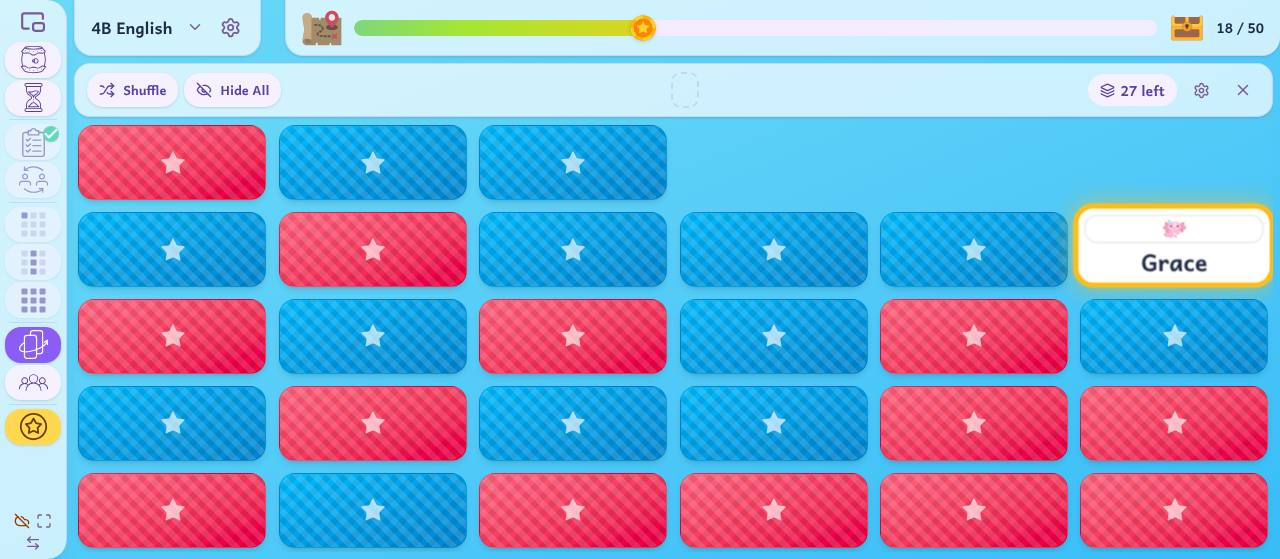
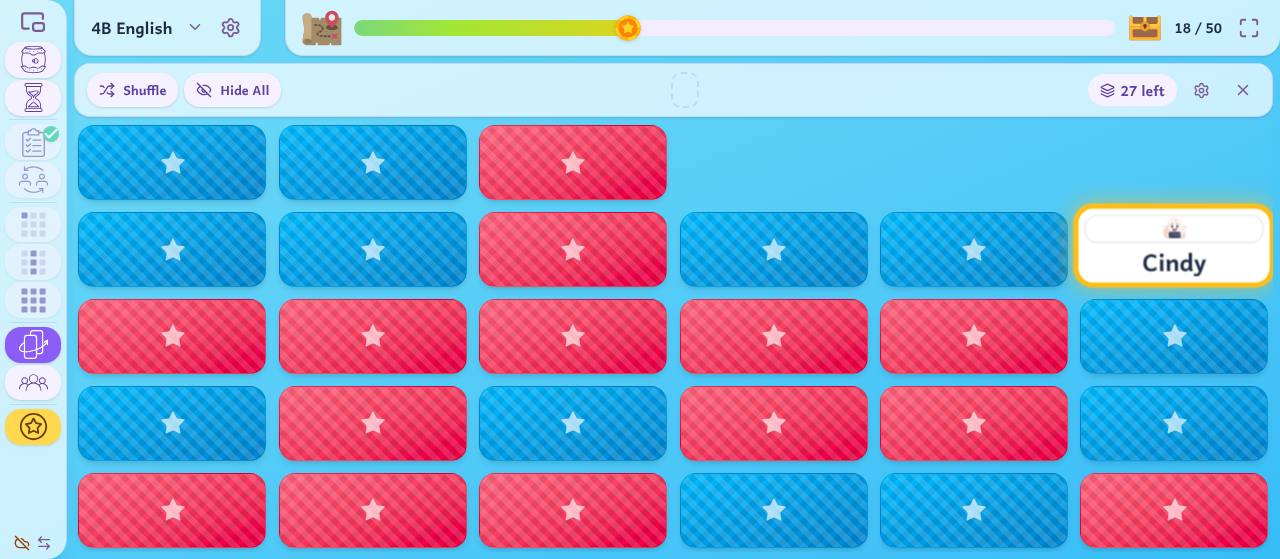
Full Screen moves to the top corner, after the star count
The teacher: the rail's foot was not a good spot. Full Screen now sits in the far
top corner, right after the goal's star count; with no class goal it sits alone
in that corner. It is there on the board, the flip cards and Group Activity, and
still in the splash's top corner. The tour's stop for it moved with it.

Claude-Session: https://claude.ai/code/session_01PE13qieobsrHkmKNdm9Swm

diff --git a/src/App.tsx b/src/App.tsx
@@ -17,6 +17,7 @@ import { GroupBuilder } from './components/GroupBuilder'
 import { SaveGroupsModal } from './components/SaveGroupsModal'
 import { GroupExitModal } from './components/GroupExitModal'
 import { PointsMeter } from './components/PointsMeter'
+import { FullScreenButton } from './components/FullScreenButton'
 import { clockPieceClass, ROW_GAP, tabClass } from './lib/topBar'
 import { SeatClassBanner } from './components/SeatClassBanner'
 import { ModeHint, TourOffer, useTourOffer } from './components/BoardHint'
@@ -798,6 +799,15 @@ export default function App() {
     return <div className="flex h-full w-full items-center justify-center text-neutral-400">Loading...</div>
   }
 
+  // Full Screen sits in the top bar's far corner, after the goal's count (2026-10-14, the teacher:
+  // the rail's foot was the wrong spot), or alone in that corner with no goal.
+  const fullScreenButton = (
+    <FullScreenButton
+      size={22}
+      className="shrink-0 rounded-lg p-1 text-muted-foreground hover:bg-accent hover:text-foreground active:scale-95"
+    />
+  )
+
   const sideRail = (
     <SideRail
       goalLive={goalLive}
@@ -980,11 +990,15 @@ export default function App() {
               lifted={meterLifted}
               side={panelSide}
               leading={<TimerClock />}
+              trailing={fullScreenButton}
             />
           ) : (
             <>
               <TimerClock frame={clockPieceClass} />
               <div className="flex-1" />
+              <div data-ink="panel" className={clsx(clockPieceClass, 'empty:hidden')}>
+                {fullScreenButton}
+              </div>
             </>
           )}
         </div>

diff --git a/src/components/SideRail.tsx b/src/components/SideRail.tsx
@@ -1,7 +1,6 @@
 import clsx from 'clsx'
 import { ArrowLeftRight, Check, Minus, PictureInPicture2, TriangleAlert } from 'lucide-react'
 import { useLayoutEffect, useRef, type CSSProperties, type ReactNode } from 'react'
-import { FullScreenButton } from './FullScreenButton'
 import { useFitToHeight } from '../hooks/useFitToHeight'
 import { timer, useTimer } from '../hooks/useTimer'
 import type { useCloudSync } from '../hooks/useCloudSync'
@@ -412,7 +411,7 @@ export function SideRail(props: SideRailProps) {
         </>
       )}
 
-      {/* The foot: the Saved mark, full screen and the side arrows, bare. mt-auto keeps them at the bottom. */}
+      {/* The foot: the Saved mark and the side arrows, bare. mt-auto keeps them at the bottom. */}
       <div className="mt-auto flex shrink-0 flex-wrap items-center justify-center gap-0.5 pt-0.5">
         {cloud.account && (
           <SyncMark
@@ -438,7 +437,6 @@ export function SideRail(props: SideRailProps) {
             <TriangleAlert size={16} />
           </span>
         )}
-        <FullScreenButton className="rounded-lg p-0.5 text-muted-foreground hover:bg-accent active:scale-95" />
         <button
           type="button"
           onClick={onToggleSide}

diff --git a/src/lib/tour.ts b/src/lib/tour.ts
@@ -73,10 +73,10 @@ export const TOUR: TourPart[] = [
       },
       { shot: 'board', at: 'meter', text: 'The class goal fills as the class earns stars. When it is full, the treasure chest opens.' },
       { shot: 'board', at: 'chest', text: 'Tap the chest to change the goal.' },
+      { shot: 'board', at: 'fullscreen', text: 'Full screen: the app fills the whole screen. Tap it again to leave.' },
       { shot: 'board', at: 'tab', text: 'Your class. Tap the arrow to switch to another class, or make a new one.' },
       { shot: 'board', at: 'gear', text: 'Class Settings: everything about this class. Help, and this tour, are in there.' },
       { shot: 'board', at: 'saved', text: 'Whether your classes are saved to your Google account. A cloud with a tick means they are.' },
-      { shot: 'board', at: 'fullscreen', text: 'Full screen: the app fills the whole screen. Tap it again to leave.' },
       { shot: 'board', at: 'side', text: 'Moves the side buttons to the other side of the screen.' },
     ],
   },

diff --git a/src/components/PointsMeter.tsx b/src/components/PointsMeter.tsx
@@ -32,6 +32,8 @@ interface PointsMeterProps {
   lifted?: boolean
   /** The timer, put away as a clock at the bar's start (BigTimer.tsx). */
   leading?: ReactNode
+  /** Full Screen, in the far corner after the count. */
+  trailing?: ReactNode
   /** Which side the rail is on, so the put-away clock sits at the meter's end nearer the rail's timer button. */
   side: 'left' | 'right'
 }
@@ -65,6 +67,7 @@ export function PointsMeter({
   onWaitingChange,
   lifted = false,
   leading,
+  trailing,
   side,
 }: PointsMeterProps) {
   const prevRef = useRef<{ classId: string; value: number; reached: number } | null>(null)
@@ -338,6 +341,8 @@ export function PointsMeter({
       >
         {displayPoints} / {goal}
       </span>
+
+      {trailing}
 
       {/* Only the gif that is currently chosen counts as ready. The last decoded one used to
           be kept, so the chest could open on the gif the teacher had just switched away from. */}

diff --git a/DECISIONS.md b/DECISIONS.md
@@ -142,7 +142,7 @@ Built or tried, and moved here from Next up (2026-10-12) so that Next up is only
 
 - **Smooth on the board: what moves, and how.** The teacher found the whole app laggy and choppy, at school and at home on any connection. It was never the internet: once the app is open nothing waits on it (each picture and sound is fetched the first time it's used). It was how hard the app made the device work, found by driving the production build at a board's speed - processor slowed 4x, 4K-like pixel density - and counting frames. Two causes. **Frosted glass**: the side panel, the goal bar, the flip-card and group toolbars, the dialog dim and the status picker blurred what was behind them, and a browser redoes every blur on every frame anything on screen moves. On a 4K board that halved the frame rate, and the dial timer, moving every frame inside the blurred panel, ran at 35. They are the same see-through colours without the blur; the dialog dim went from 40% to 50% and the status picker's to 60% so they still stand apart from the board. The only blur left was Delete Class's small safety cover, whose job was to hide the button under it; it went with the menus' tidy-up (2026-10-11), and nothing is blurred now. **Animations run by the main processor**: framer-motion moved things frame by frame in JavaScript - nine sparkles per point, stars swirling round a picked desk, thirty cards dealt, thirty name chips dealt, a spring on every button press, the flip clock's leaves every second - and made the page be measured on every render for a side-panel glide used once a term. **What went**, with the teacher asking for anything not really needed to go: the stars round a picked student or row (the picked desk now has a still amber outline, the pickers' colour everywhere else, and an inked black one in Comic Book, where amber disappears into the yellow ground), the +1 sparkles on the goal bar and, once it was live, the "+1" that rose off the coin on every point, and the one that rose off the floating window's +1 button (the count popping and the coin moving already say it), the brightness filter on a flickering desk or group card, and the side panel's glide when it changes sides. **What stayed, moved to CSS or `element.animate`**, which the graphics chip runs by itself, and looks the same: the goal bar's coin, fill, count pop and chest rattle; every button's press; the flip clock's leaves; the flip-card deal, turn, lift and fade; and the group deal, where each chip remembers where it was drawn and glides home from there - one small glide for gathering, dealing, moving a name and the chips closing up behind it. The dial redraws only as often as its edge moves, every half degree (about 12 times a second for a 1-minute timer, once a second for 20 minutes), not 60 times a second. And the windows no longer build their contents while closed: Class Settings built the roster and a month of attendance on every desk tap. Measured at 4K-like density with the processor slowed 4x, frames per second before → after: dial timer 35 → 57, flipping cards 30 → 52, +1 39 → 56, picking a student 46 → 58, dealing groups 33 → 50, opening flip cards 38 → 50, tapping desks 50 → 56. What is left is a one-off pause as the flip-card and group screens are first built. The rules this leaves are in CLAUDE.md; `scripts/frame-check.mjs` repeats the measurement.
 
-- **The side rail** (built 2026-10-10; the teacher's own mock-up, worked out over three rounds of a preview). **Why**: the side panel's buttons with words took 256px of every screen; **one column of the teacher's own icons, no words**, takes 67px on the teacher's board (1280x559), so the desks and the goal meter have the room: a desk there is 186x83 where it was 151x80, and the meter's track 791px where it was 482. Two across with a word on each was offered first, and one column with words: words cost each desk about 4px and shrank the icons. **The icons are the teacher's** (Flaticon, on the teacher's subscription), their purple made the button's text colour so every theme colours them (`RailIcons.tsx`): a taiko drum (Get Ready!), an hourglass (the timer), a clipboard (Attendance), two people swapping (Swap Seats), two cards (Flip Cards), three people (Group Activity) and a star in a circle (the point). **The pickers are drawn from the teacher's grid** (nine squares), as one family (`PickerIcons.tsx`): a filled square is picked, a faded one the rest of a random pick, an empty one nobody, and a ring the row a pick is staying inside; tables are four little tables and groups three cards. **The order, top to bottom**: Float as a bare icon at the very top, like a gear (with a goal, in Chrome and Edge); Get Ready! and the timer; Attendance and Swap Seats; the three pickers (a random student, a random row, everyone); Flip Cards and Group Activity; the star that gives the point. A hairline between each kind. **Every button the same size**, the star included (still yellow in Elementary); the Saved mark, Full Screen and the side arrows bare at the foot. **Full Screen** (2026-10-14, the teacher: "The app could really use a full screen toggle on each screen"): the browser's own full screen, one tap in and one tap out (or Esc), so the tabs, address bar and bookmarks give their strip back to the desks; a teacher at a board has no F11. It sits at the rail's foot, which is on the board, the flip cards and Group Activity alike, and in the splash's top corner, quiet on the wall; it is hidden where a browser can't do it (`FullScreenButton.tsx`). The app already fits whatever it is given, so the rail and the board just grow into the room. Checked in the walkthrough ("full screen"). **The pickers change with what is lit on the board**: after Pick Row lands, the student picker picks inside that row (Pick from This Row, the row ringed); with desks tapped by hand, the row picker is **Pick Whole Row** (the row filled in, greyed once it is whole); and **whenever anyone is picked**, by hand or by a picker, Pick All is the empty grid, **Unpick All**, and lets them go (it used to take a pick over and pick everyone; now a pick is let go of first). A picker that changes face gives a small pop, so the eye notices. At tables they say Table, and during a group activity Group. **On the desks first**, − sits above the star and **All Stars In!** under it, the treasure chest with how many stars are waiting. **Dropped for room**: the "Points go to Mulan" line on the flip cards (the glowing card says whose turn it is) and "3 students selected". **Attendance done today** is a small green tick on its button. **The rail and the goal bar sit flush against the browser's edges** (2026-10-10, the teacher's mock-ups): the rail runs the window's whole height down its side and the bar along the top to the far side, square where they meet the window and rounded facing the desks (the rail's inside corners, the bar's bottom ones), so they read as part of the window rather than cards on the board; the desks keep a gap from the window's other two edges. Moved to the right, it all mirrors, and the bar's clock goes to the bar's right end, by the rail. In Chalkboard they meet the wooden frame's inside edge, so the frame stays whole. **The bar is always there**: the goal meter with the class's name at its end, or with no goal the name alone (it was at the top of the side panel). **Since 2026-10-11 it is two pieces with an aisle between them** (the teacher's own mock-up, "helps visually distinguish the two areas"): the goal meter by the rail, ending on its count, and the class's name, switcher and gear in a tab of their own in the far top corner, flush with the window's top and far edges and rounded at the bottom like the meter (`lib/topBar.ts`). The meter is the class's progress and the tab is the teacher's controls; in one bar the name read as part of the meter. The gap is a desk aisle's width (1.5rem; the teacher's mock-up had about three times that, which a small screen's meter can't spare), so on the teacher's board the meter's track is 811px. The tab takes what its name needs, up to 45% of the row, the name shrinking a little and then cutting before the meter loses more; the class list drops from the tab's window edge. With no goal only the tab is there, and the timer put away is a small piece of its own by the rail. Moved to the right, it all mirrors. Checked at 1024x500 with "Kindergarten Phonics" (full size), the teacher's board and 1920x1080, in every theme, with the class list open from both sides and the timer put away with a goal and without. **Swapped round on 2026-10-14** (the beta testers: the name and gear were opposite the side panel): the class's tab is beside the rail now, with the teacher's other buttons, and the goal meter runs on to the far corner, flush with the window's edge; the class list drops from the tab over the board, and with no goal the timer put away sits beside the tab. **One gear in the app**: the class's, beside its name, without the words "Class Settings" (they were added in lesson one because two gears looked alike); Pickers & Points, which had the other gear, became a tab of Class Settings, and since 2026-10-11 its parts are the Points and Tools sections; the meter's chest opens Points. **No words on the buttons**: each one's name is its `aria-label` and `title` (a mouse shows it; a board can't), which is also how the checks find them; the tour (Settled mechanics, "The tour of the app") is how a new teacher learns them. **It fits any screen** the way the panel did (`useFitToHeight`): drawn, measured, and if it runs past the bottom, the gaps and padding go first, then the icons a step at a time. On the teacher's board the buttons are 56x36, at 1024x500 49x32, at 1920x1080 81x60. The tour of the app (Settled mechanics) shows each button in turn. **With no points** (2026-10-11) the star, −, Pick All and Pick Whole Row go, since picking students by hand is only ever for giving them points: the rail is Get Ready!, the timer, Attendance, Swap Seats, the two random pickers, Flip Cards and Group Activity. **Its buttons never ease their size** (2026-10-11): a greyed button kept the button's own "transition everything", so when a font arrived and the rail measured itself again, its padding was still easing back, the rail looked as if it fitted, and it ran 9px past the bottom with Class Settings open. **A change of theme fits it again** (2026-10-11, the teacher, on his laptop: after trying another theme and coming back, the rail was less full than when the app opened). A theme draws the rail differently (Chalkboard's wooden frame takes height), and it is put on the page after React has drawn, so the rail never measured itself in the new theme: Chalkboard ran 14px past the bottom at 1333x608, and the next tap tightened the rail a step that coming back never undid. It now fits itself again whenever the page's theme changes, as it does for a resize or the fonts (`useFitToHeight`), checked in the walkthrough ("theme change: the rail fits itself again").
+- **The side rail** (built 2026-10-10; the teacher's own mock-up, worked out over three rounds of a preview). **Why**: the side panel's buttons with words took 256px of every screen; **one column of the teacher's own icons, no words**, takes 67px on the teacher's board (1280x559), so the desks and the goal meter have the room: a desk there is 186x83 where it was 151x80, and the meter's track 791px where it was 482. Two across with a word on each was offered first, and one column with words: words cost each desk about 4px and shrank the icons. **The icons are the teacher's** (Flaticon, on the teacher's subscription), their purple made the button's text colour so every theme colours them (`RailIcons.tsx`): a taiko drum (Get Ready!), an hourglass (the timer), a clipboard (Attendance), two people swapping (Swap Seats), two cards (Flip Cards), three people (Group Activity) and a star in a circle (the point). **The pickers are drawn from the teacher's grid** (nine squares), as one family (`PickerIcons.tsx`): a filled square is picked, a faded one the rest of a random pick, an empty one nobody, and a ring the row a pick is staying inside; tables are four little tables and groups three cards. **The order, top to bottom**: Float as a bare icon at the very top, like a gear (with a goal, in Chrome and Edge); Get Ready! and the timer; Attendance and Swap Seats; the three pickers (a random student, a random row, everyone); Flip Cards and Group Activity; the star that gives the point. A hairline between each kind. **Every button the same size**, the star included (still yellow in Elementary); the Saved mark and the side arrows bare at the foot. **Full Screen** (2026-10-14, the teacher: "The app could really use a full screen toggle on each screen"): the browser's own full screen, one tap in and one tap out (or Esc), so the tabs, address bar and bookmarks give their strip back to the desks; a teacher at a board has no F11. It sits in the top bar's far corner, after the goal's star count (with no goal, alone in that corner), which is there on the board, the flip cards and Group Activity alike, and in the splash's top corner, quiet on the wall; it was at the rail's foot first, for an hour, and the teacher moved it: "That is not a good spot"; it is hidden where a browser can't do it (`FullScreenButton.tsx`). The app already fits whatever it is given, so the rail and the board just grow into the room. Checked in the walkthrough ("full screen"). **The pickers change with what is lit on the board**: after Pick Row lands, the student picker picks inside that row (Pick from This Row, the row ringed); with desks tapped by hand, the row picker is **Pick Whole Row** (the row filled in, greyed once it is whole); and **whenever anyone is picked**, by hand or by a picker, Pick All is the empty grid, **Unpick All**, and lets them go (it used to take a pick over and pick everyone; now a pick is let go of first). A picker that changes face gives a small pop, so the eye notices. At tables they say Table, and during a group activity Group. **On the desks first**, − sits above the star and **All Stars In!** under it, the treasure chest with how many stars are waiting. **Dropped for room**: the "Points go to Mulan" line on the flip cards (the glowing card says whose turn it is) and "3 students selected". **Attendance done today** is a small green tick on its button. **The rail and the goal bar sit flush against the browser's edges** (2026-10-10, the teacher's mock-ups): the rail runs the window's whole height down its side and the bar along the top to the far side, square where they meet the window and rounded facing the desks (the rail's inside corners, the bar's bottom ones), so they read as part of the window rather than cards on the board; the desks keep a gap from the window's other two edges. Moved to the right, it all mirrors, and the bar's clock goes to the bar's right end, by the rail. In Chalkboard they meet the wooden frame's inside edge, so the frame stays whole. **The bar is always there**: the goal meter with the class's name at its end, or with no goal the name alone (it was at the top of the side panel). **Since 2026-10-11 it is two pieces with an aisle between them** (the teacher's own mock-up, "helps visually distinguish the two areas"): the goal meter by the rail, ending on its count, and the class's name, switcher and gear in a tab of their own in the far top corner, flush with the window's top and far edges and rounded at the bottom like the meter (`lib/topBar.ts`). The meter is the class's progress and the tab is the teacher's controls; in one bar the name read as part of the meter. The gap is a desk aisle's width (1.5rem; the teacher's mock-up had about three times that, which a small screen's meter can't spare), so on the teacher's board the meter's track is 811px. The tab takes what its name needs, up to 45% of the row, the name shrinking a little and then cutting before the meter loses more; the class list drops from the tab's window edge. With no goal only the tab is there, and the timer put away is a small piece of its own by the rail. Moved to the right, it all mirrors. Checked at 1024x500 with "Kindergarten Phonics" (full size), the teacher's board and 1920x1080, in every theme, with the class list open from both sides and the timer put away with a goal and without. **Swapped round on 2026-10-14** (the beta testers: the name and gear were opposite the side panel): the class's tab is beside the rail now, with the teacher's other buttons, and the goal meter runs on to the far corner, flush with the window's edge; the class list drops from the tab over the board, and with no goal the timer put away sits beside the tab. **One gear in the app**: the class's, beside its name, without the words "Class Settings" (they were added in lesson one because two gears looked alike); Pickers & Points, which had the other gear, became a tab of Class Settings, and since 2026-10-11 its parts are the Points and Tools sections; the meter's chest opens Points. **No words on the buttons**: each one's name is its `aria-label` and `title` (a mouse shows it; a board can't), which is also how the checks find them; the tour (Settled mechanics, "The tour of the app") is how a new teacher learns them. **It fits any screen** the way the panel did (`useFitToHeight`): drawn, measured, and if it runs past the bottom, the gaps and padding go first, then the icons a step at a time. On the teacher's board the buttons are 56x36, at 1024x500 49x32, at 1920x1080 81x60. The tour of the app (Settled mechanics) shows each button in turn. **With no points** (2026-10-11) the star, −, Pick All and Pick Whole Row go, since picking students by hand is only ever for giving them points: the rail is Get Ready!, the timer, Attendance, Swap Seats, the two random pickers, Flip Cards and Group Activity. **Its buttons never ease their size** (2026-10-11): a greyed button kept the button's own "transition everything", so when a font arrived and the rail measured itself again, its padding was still easing back, the rail looked as if it fitted, and it ran 9px past the bottom with Class Settings open. **A change of theme fits it again** (2026-10-11, the teacher, on his laptop: after trying another theme and coming back, the rail was less full than when the app opened). A theme draws the rail differently (Chalkboard's wooden frame takes height), and it is put on the page after React has drawn, so the rail never measured itself in the new theme: Chalkboard ran 14px past the bottom at 1333x608, and the next tap tightened the rail a step that coming back never undid. It now fits itself again whenever the page's theme changes, as it does for a resize or the fonts (`useFitToHeight`), checked in the walkthrough ("theme change: the rail fits itself again").
 - **Before the rail: the side panel grew with a tall screen.** Its text was sized in vmin, so on a 1080-tall board the text grew while the panel stayed 16rem: the class name was cut to "4B Eng…" and Swap Seats ran out past the panel's edge. The panel became 30vmin, held between 16rem and 21rem.
 - **Elementary's everyday buttons are pale, with purple words; yellow means a point.** From the zoom-out review (2026-09-30): every button in the default theme was the same yellow - nine on the side panel alone, and every one in every window - so nothing stood out and the eye had nowhere to land. Now they are a pale lilac, purple still means on, and the one yellow button left is **+**, on the side panel and on a group card, so a hand finds it without looking. The other themes already had quiet buttons and keep them; Comic Book stays loud on purpose. **Pick All, − and + grow with the screen**: they were the smallest buttons on the panel, 38px, while a third of it sat empty on a big board. They are 38px at 640 tall, as before (the panel is tightest there), about 50px at 800 and about 70px at 1080, with the words and signs growing too. Chosen from a before-and-after mock-up of the real app.
 - **The pickers' icons show what they pick** (2026-10-03, the teacher: Pick Row and Group Activity had the same icon). **On the side rail they are redrawn from the teacher's own grid, as one family** ("The side rail"); the idea below holds. They were both two people (lucide's Users and UsersRound), and in a group activity Pick Group and Group Activity were the very same picture. Now each picker is drawn the way the board shows a pick, the picked desks lit and the rest faded: **Pick Row** is a room of desks with one row lit, **Pick Table** four tables with one lit, **Pick Group** three group cards with the middle one lit. **Group Activity** is three people, a team, and Pick Student stays one person. **The two pickers say Random**: **Pick a Random Student** and **Pick a Random Row** (Table, Group) (2026-10-08, the teacher: without the word a teacher may think it is how to pick a student by hand, which is a tap on their desk); Pick from This Row and the floating window's Pick keep their words. Every button on the panel is checked to keep its words inside its edge (the walkthrough's "nothing scrolls"). Drawn in `PickerIcons.tsx`, because lucide has no picture of a room, in lucide's 24-unit box so they line up with the icons beside them, and in the text colour, so they follow every theme and a lit button.

diff --git a/CLAUDE.md b/CLAUDE.md
@@ -95,10 +95,10 @@ checks the live URL. Confirm it went green before saying something is live. It a
 - `src/components/`:
   - `SideRail.tsx`: the side rail, one column of the teacher's own icons (`RailIcons.tsx`, generated from the teacher's Flaticon SVGs;
     the pickers' grids in `PickerIcons.tsx`): Float, Get Ready!, the timer, Attendance, Swap Seats, the three pickers, Flip
-    Cards, Group Activity, the star (and − and All Stars In! on the desks first), the Saved mark, Full Screen (`FullScreenButton.tsx`, on the splash too) and the side arrows. No words:
+    Cards, Group Activity, the star (and − and All Stars In! on the desks first), the Saved mark and the side arrows. No words:
     each button's name is its `aria-label` and `title`, which is also how the checks find them.
   - `ClassTitle.tsx`: the class name, switcher (with New Class at the foot of its list) and Class Settings gear (the app's one
-    gear), in its own tab beside the rail, an aisle apart from the goal meter, which runs on to the far corner (`lib/topBar.ts`), with the meter or without.
+    gear), in its own tab beside the rail, an aisle apart from the goal meter, which runs on to the far corner (`lib/topBar.ts`), with the meter or without. Full Screen (`FullScreenButton.tsx`) is in that far corner, after the meter's count, and on the splash.
   - `ClassSettingsModal.tsx`: Class Settings, one window with its sections down the left (`SECTIONS`: Class, Students, Avatars,
     Points; Tools; Attendance, Participation; Google, with New Class ruled off at its foot), each in `components/settings/` and built from `settings/parts.tsx`, laid out
     by the `cs-` classes in `index.css`. Nothing in a section may be below the window's edge; only a list of the same kind of
